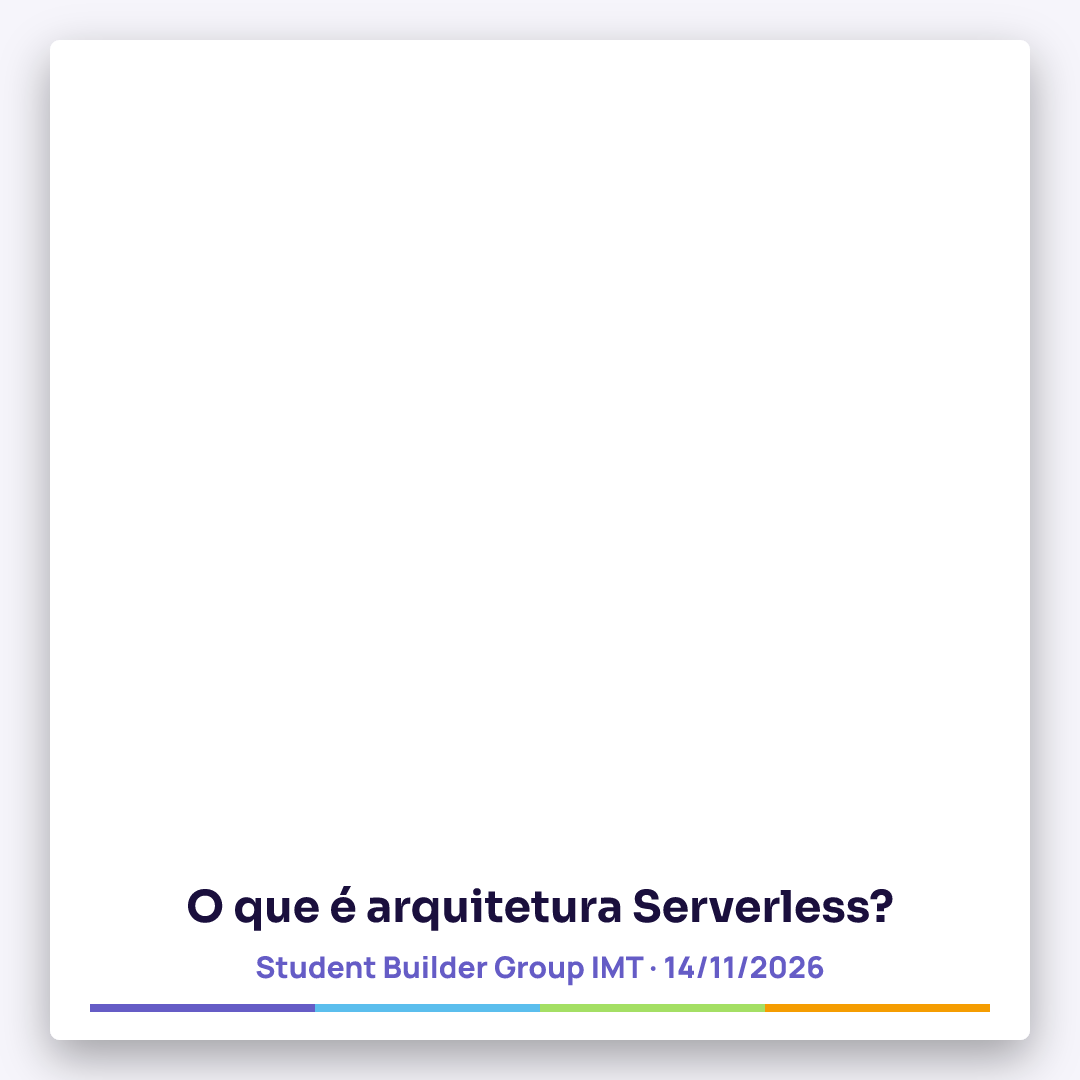
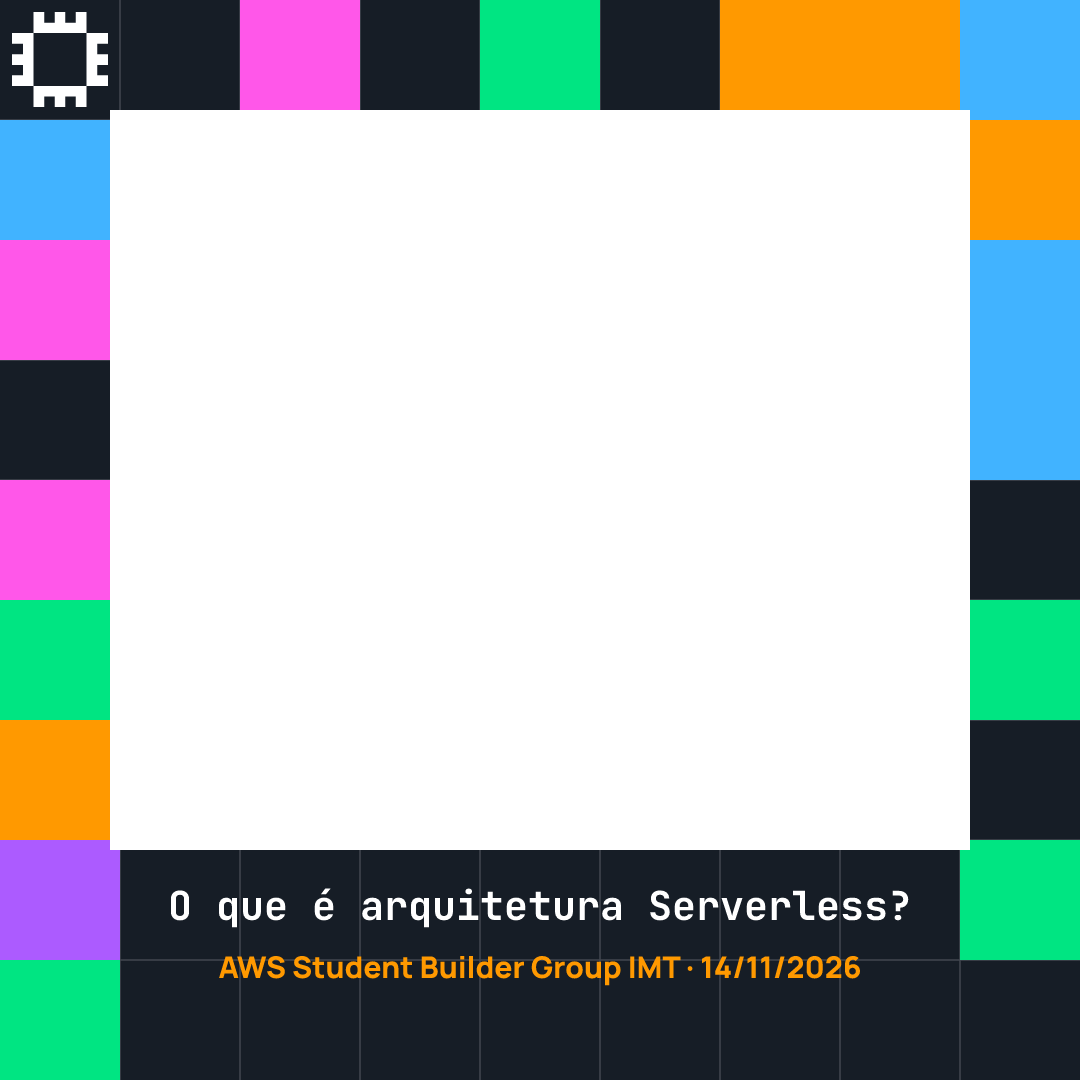
feat: moldura na identidade visual do AWS Student Builder Group
Fundo #161D26, grade de 120 px, mosaico em pixel nas cores do programa e
ícone do chip, a partir do template oficial. Títulos em JetBrains Mono
(substituto livre da Amazon Ember), texto em Manrope. Imagem de exemplo
no mesmo padrão.

Claude-Session: https://claude.ai/code/session_016qSjPc7FFYxHLP4xrH4vjY

diff --git a/README.md b/README.md
@@ -419,7 +419,7 @@ web/
   style.css           paleta e tipografia da palestra
   sample.jpg          imagem de exemplo (ilustração própria, sem rosto)
 scripts/
-  build-frames.mjs    gera molduras e imagem de exemplo (Sora/Manrope, OFL)
+  build-frames.mjs    gera molduras e imagem de exemplo (identidade SBG, JetBrains Mono/Manrope)
   cleanup.mjs         limpeza pós-evento com dry-run
 tests/                node:test: imagem/estados + assertions do template CDK
 .github/workflows/    ci.yml (typecheck, testes, synth) e deploy.yml (manual, OIDC)
@@ -615,5 +615,6 @@ de cobrança) e use **Encerrar entrada** + limpeza ao final.
 - [MDN: Web Share API](https://developer.mozilla.org/en-US/docs/Web/API/Web_Share_API), [`navigator.canShare`](https://developer.mozilla.org/en-US/docs/Web/API/Navigator/canShare), [`navigator.share`](https://developer.mozilla.org/en-US/docs/Web/API/Navigator/share)
 - Case público citado na palestra: [Serverlesspresso](https://github.com/aws-samples/serverless-coffee)
 
-Fontes Sora e Manrope: SIL Open Font License, via Google Fonts. A aplicação não é produto
+Fontes JetBrains Mono e Manrope: SIL Open Font License, via Google Fonts. Paleta, grade,
+mosaico e ícone do chip vêm do template oficial do AWS Student Builder Group. A aplicação não é produto
 oficial nem tem endosso do Student Builder Group ou da AWS.
